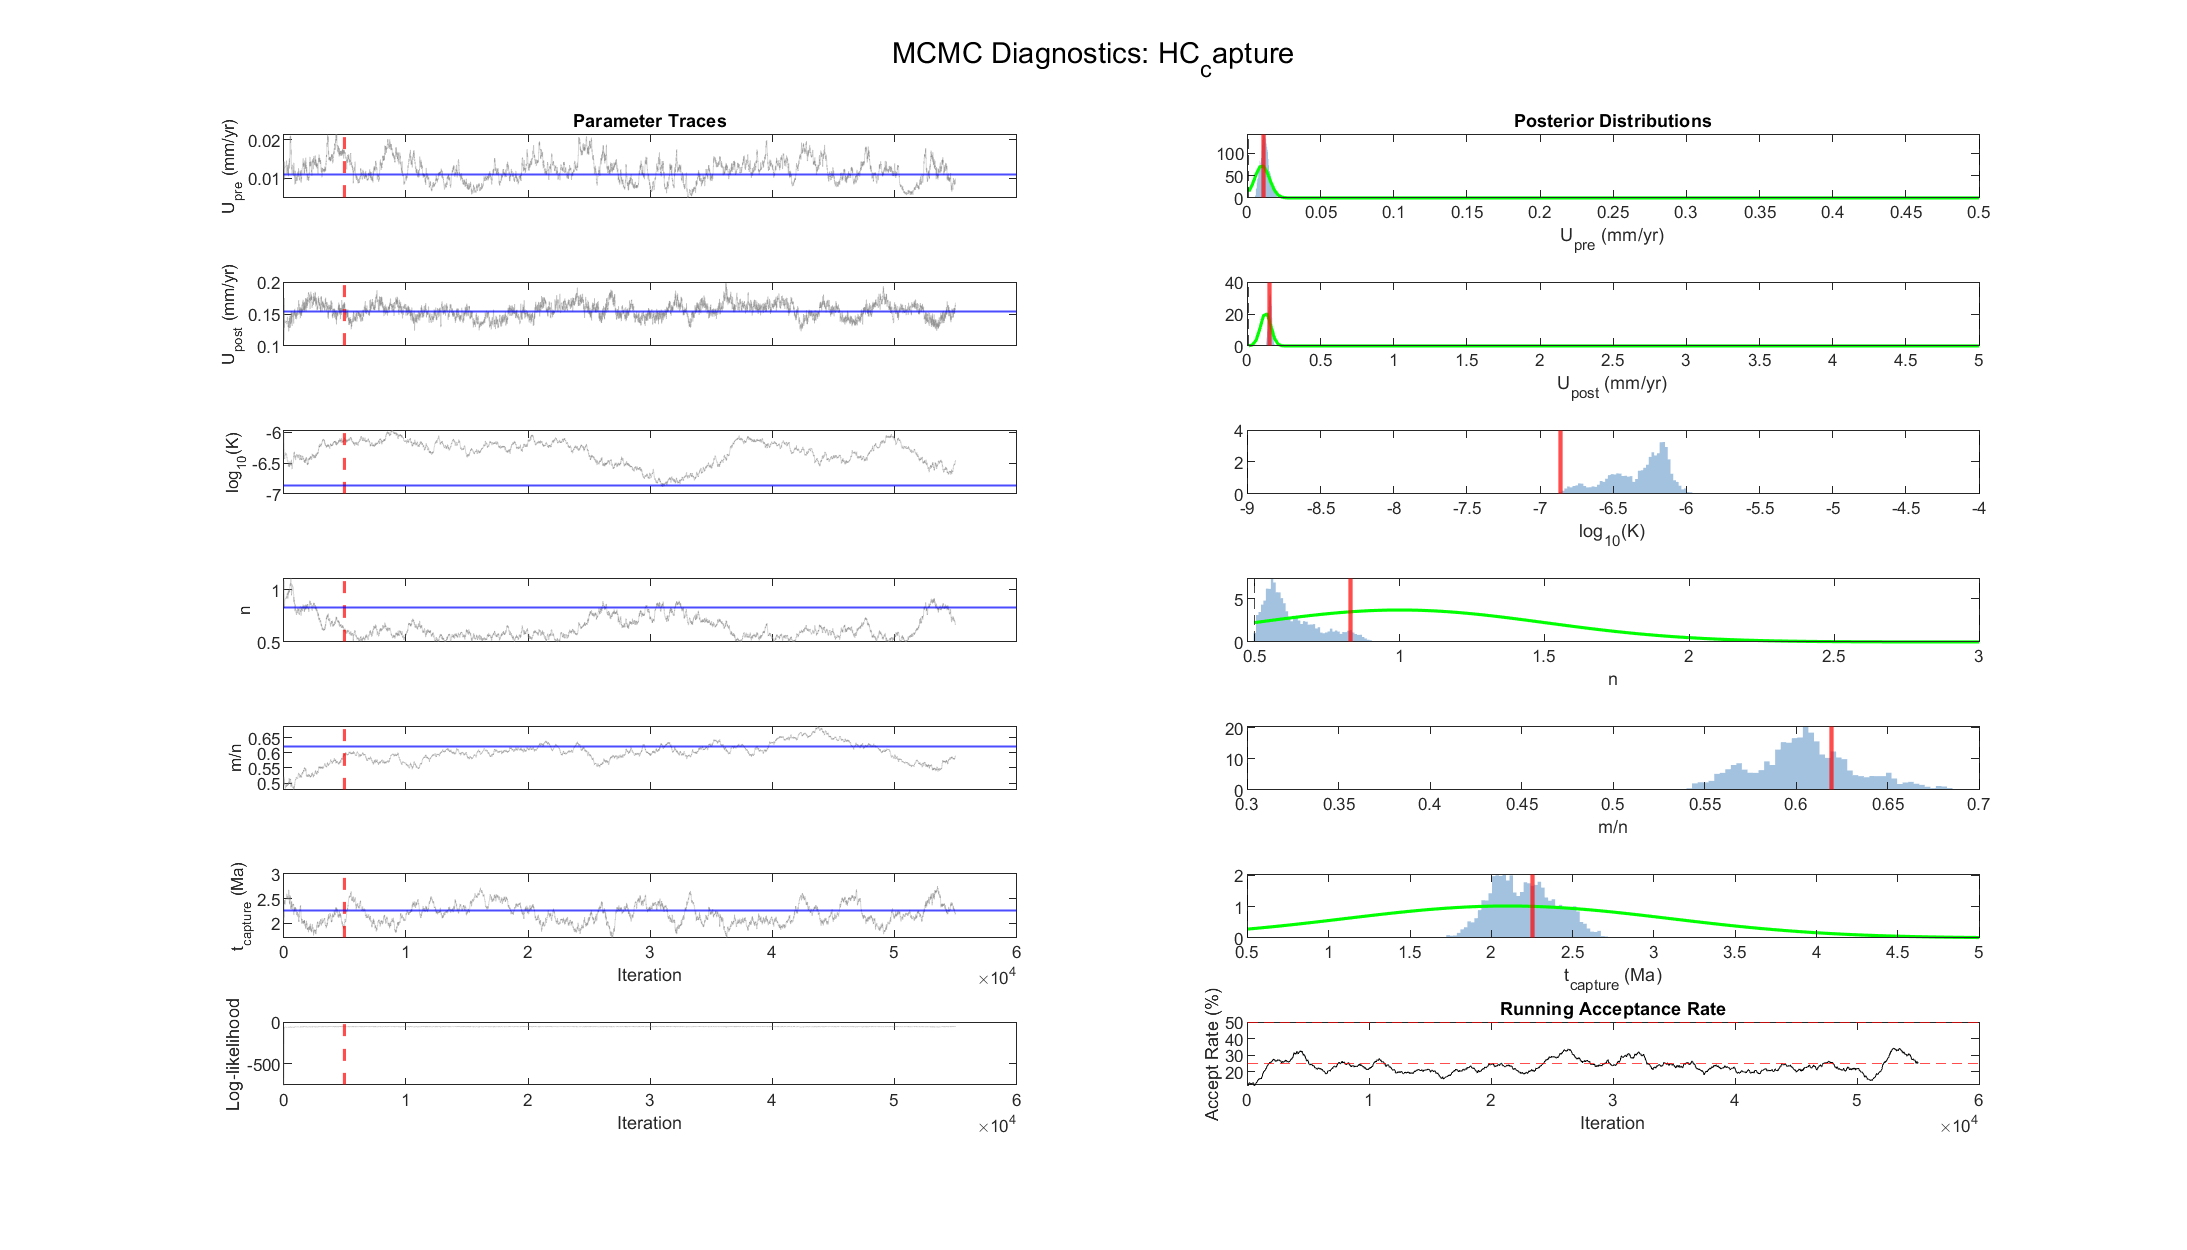
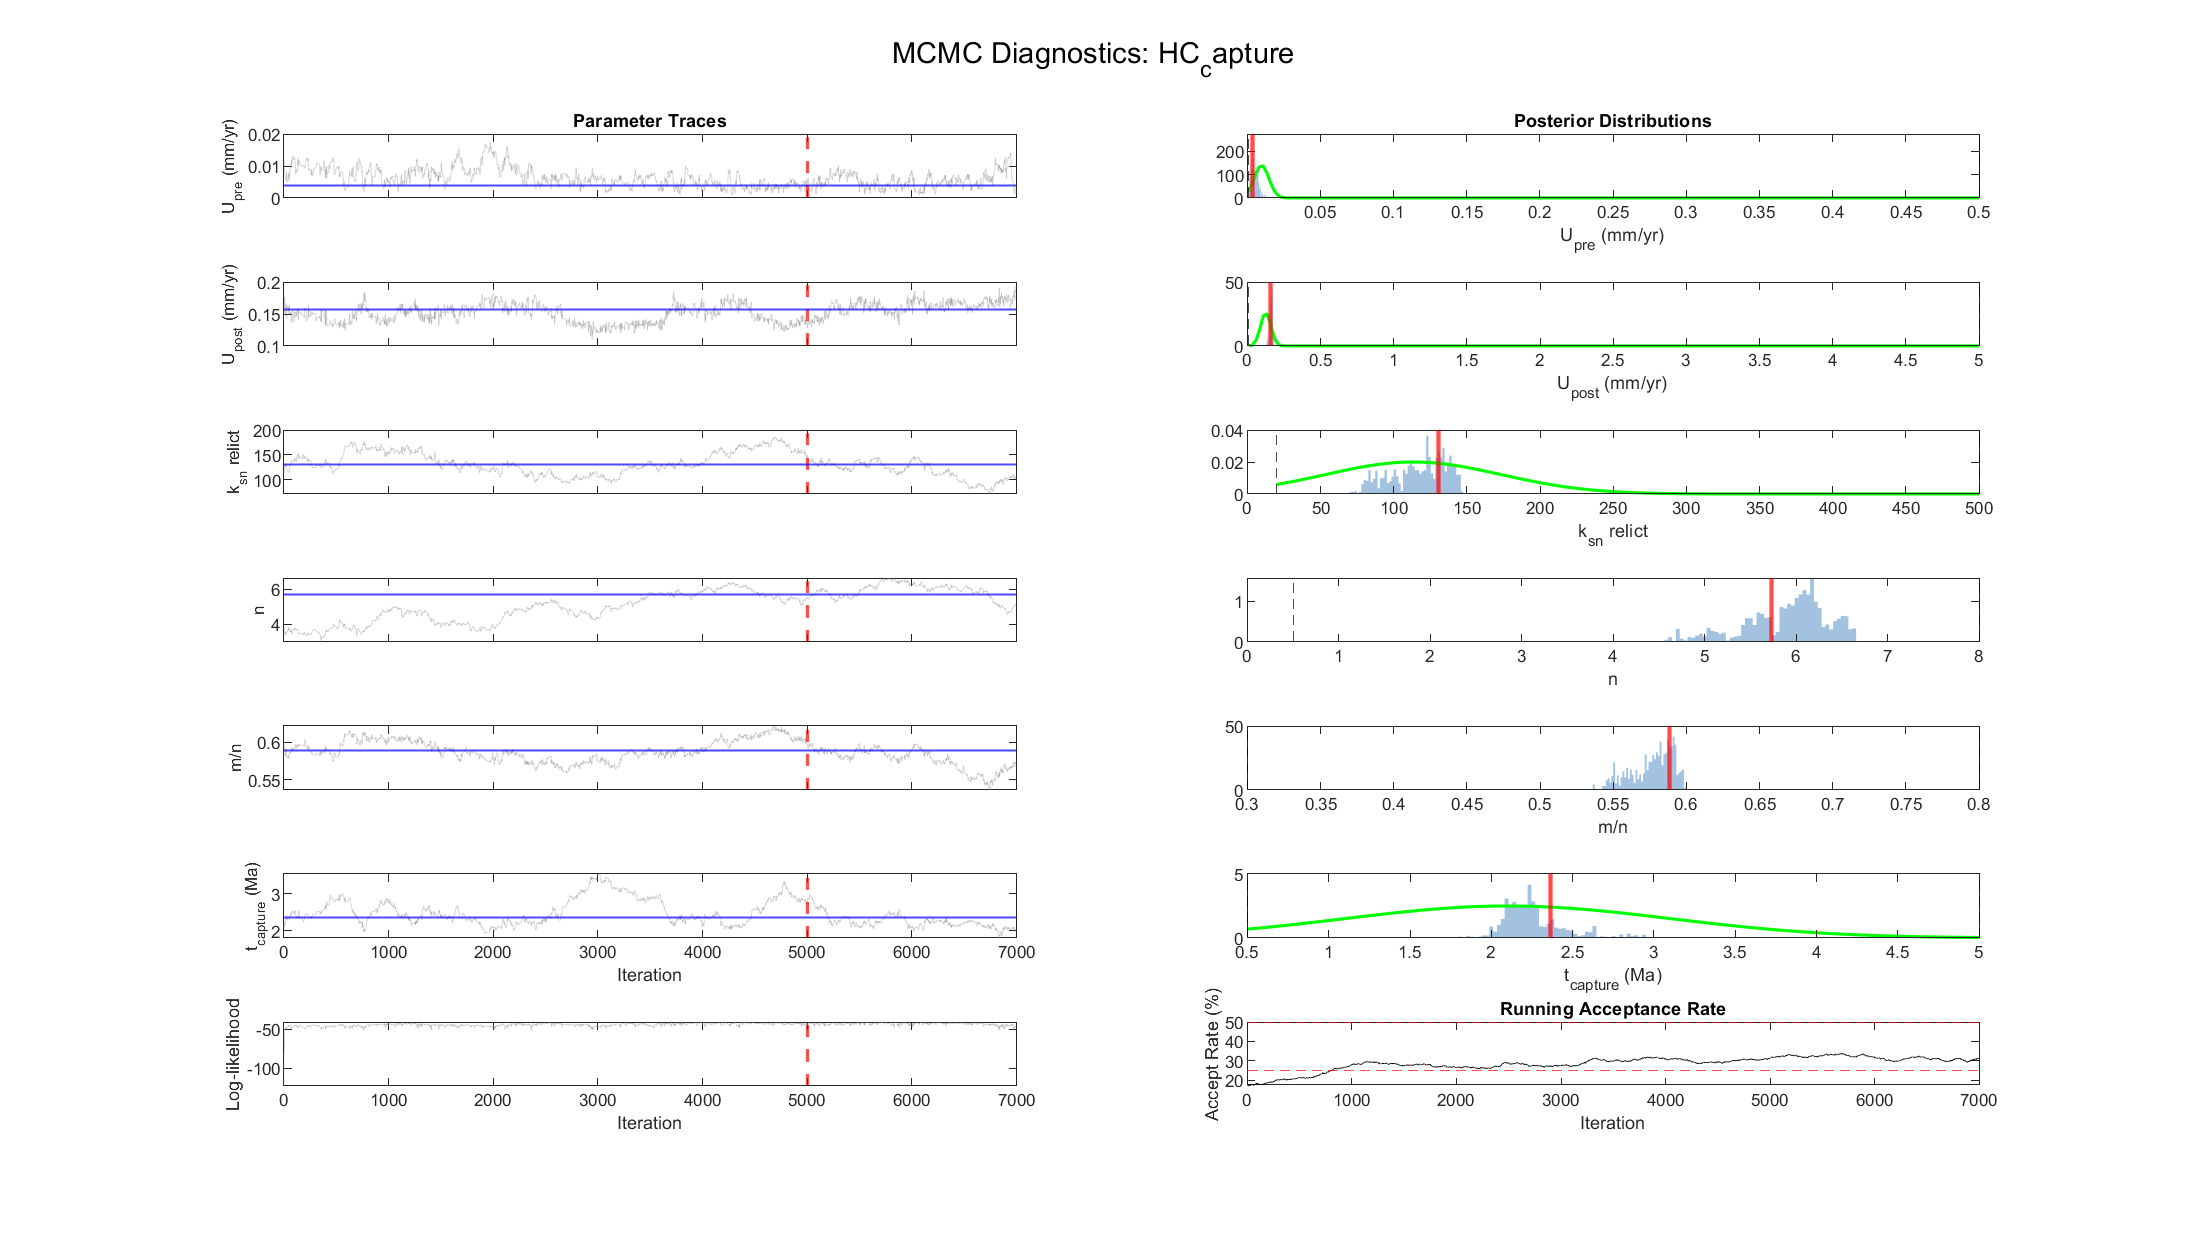
local run settings and diagnostics

diff --git a/HellsCanyon_BayesianInversion/ess_check.m b/HellsCanyon_BayesianInversion/ess_check.m
@@ -1,0 +1,46 @@
+%% ess_check.m -- how many INDEPENDENT samples do you actually have?
+load('params_HC_capture.mat');       % params_post, param_names
+
+X = params_post;
+[N, P] = size(X);
+maxlag = min(20000, floor(N/5));     % ACF is unreliable beyond ~N/5
+rate_per_sec = 0.4;                  % your measured throughput
+target_ESS   = 200;
+
+IACT = zeros(1,P);  ESS = zeros(1,P);
+
+for p = 1:P
+    x = X(:,p) - mean(X(:,p));
+    if var(x,1) == 0, IACT(p)=Inf; ESS(p)=0; continue; end
+
+    % autocorrelation via zero-padded FFT
+    nfft = 2^nextpow2(2*N);
+    f    = fft(x, nfft);
+    acf  = real(ifft(f .* conj(f)));
+    acf  = acf(1:maxlag+2);
+    acf  = acf / acf(1);             % acf(1) = rho(0) = 1
+
+    % Geyer initial-positive-sequence estimator
+    s = 0; m = 0;
+    while true
+        i1 = 2*m + 1;  i2 = 2*m + 2;
+        if i2 > numel(acf), break; end
+        G = acf(i1) + acf(i2);
+        if G <= 0, break; end
+        s = s + G;  m = m + 1;
+    end
+    IACT(p) = max(2*s - 1, 1);       % tau = 2*sum(Gamma) - 1
+    ESS(p)  = N / IACT(p);
+end
+
+fprintf('\nPost-burn-in samples: %d\n\n', N);
+fprintf('%-20s %10s %10s %14s %12s\n', ...
+        'Parameter','IACT','ESS','need (iters)','extra hours');
+fprintf('%s\n', repmat('-',1,70));
+for p = 1:P
+    need  = target_ESS * IACT(p);
+    hours = max(need - N, 0) / rate_per_sec / 3600;
+    fprintf('%-20s %10.0f %10.1f %14.0f %12.1f\n', ...
+            param_names{p}, IACT(p), ESS(p), need, hours);
+end
+fprintf('\nWorst parameter drives the run length.\n');

diff --git a/HellsCanyon_BayesianInversion/main_hc_bayes_inversion.m b/HellsCanyon_BayesianInversion/main_hc_bayes_inversion.m
@@ -106,7 +106,7 @@ use_informative_priors = true;
 
 % --- MCMC Settings ---
 n_burnin   = 5e3;    % Burn-in iterations (increase for production)
-n_postburn = 5e4;    % Post-burn-in iterations (increase for production)
+n_postburn = 2000;    % Post-burn-in iterations (increase for production)
 dt_forward = 25000;  % Forward model time step (years)
 
 % --- Adaptive proposal tuning (burn-in ONLY) ---
@@ -139,7 +139,7 @@ prior_bounds = [
     1e-6,   5e-4;     % U_pre:     ~0.001 to 0.5 mm/yr
     1e-5,   5e-3;     % U_post:    ~0.01 to 5 mm/yr
     20,     500;      % ksn_ref:   relict steepness (measured ~113)
-    0.5,    8;        % n:         wide; ksn data implies ~3.7
+    0.5,    12;        % n:         wide; ksn data implies ~3.7
     0.3,    0.8;      % m/n:       typical concavity range
     0.5e6,  5e6;      % t_capture: 0.5 to 5 Ma
 ];
